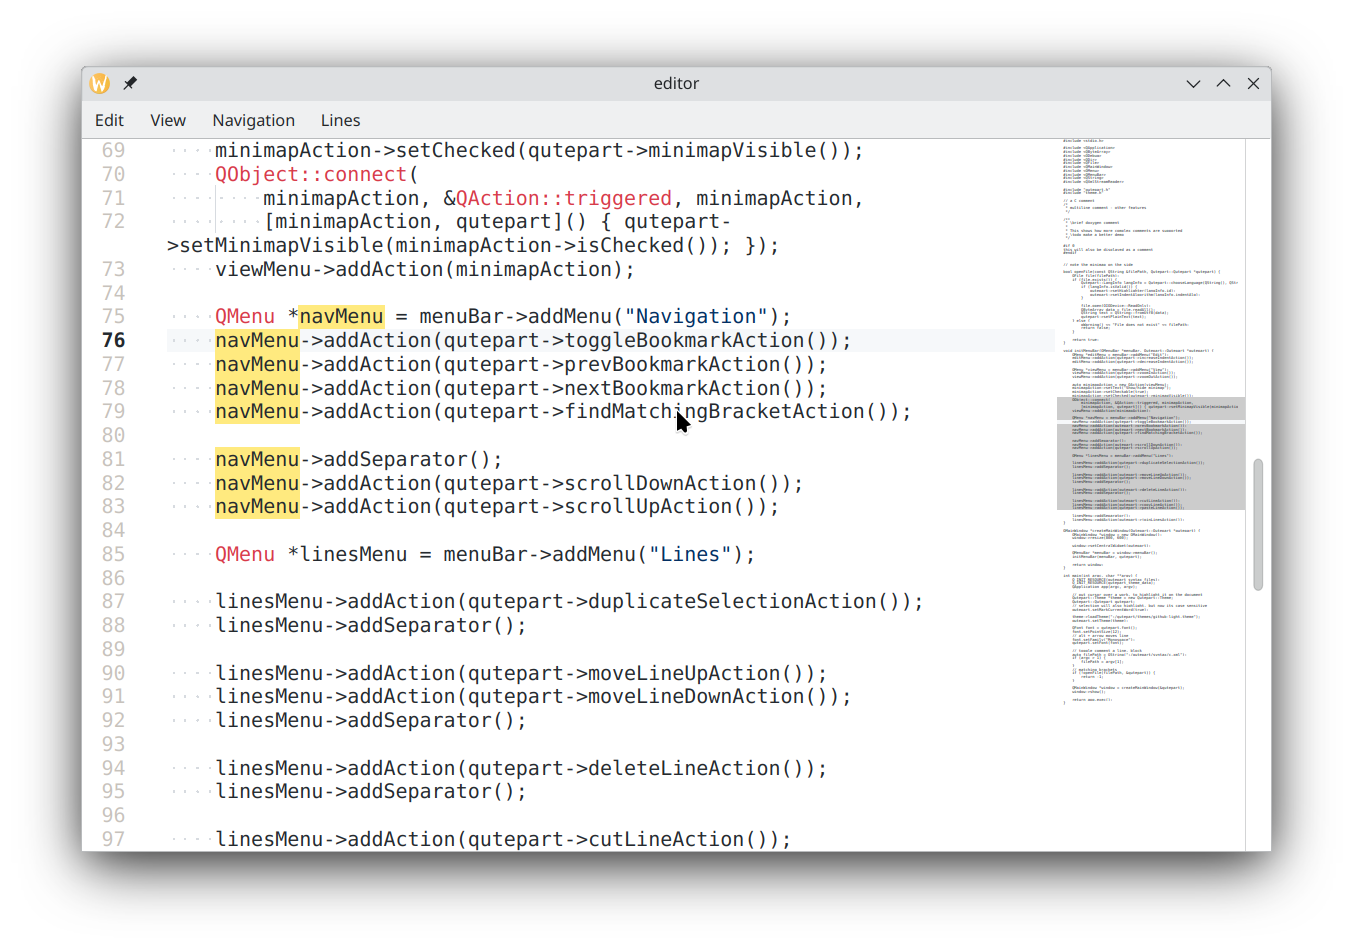
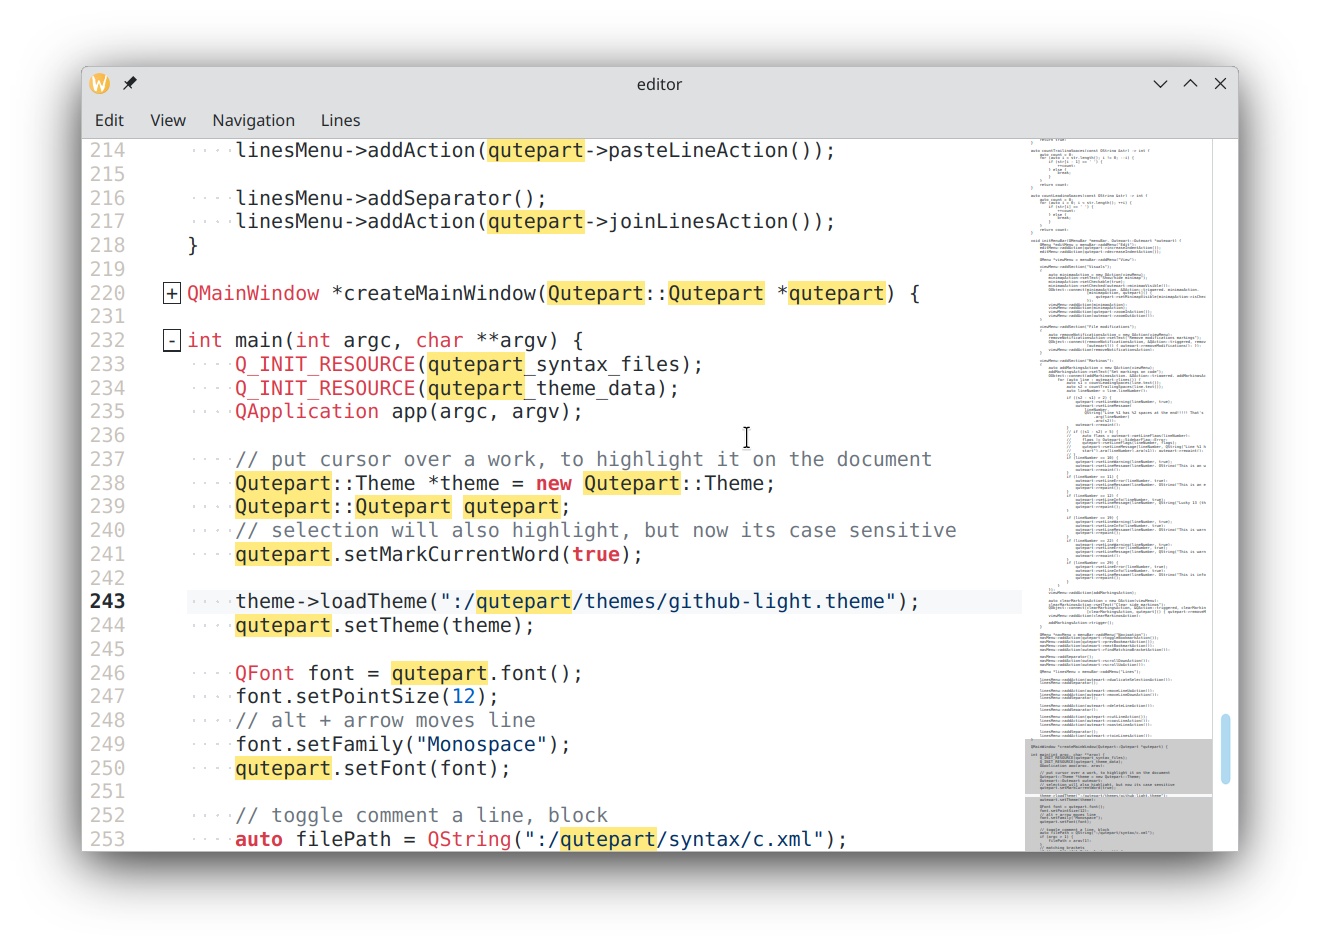
Qutepart: finish folding implementation (19)
1) New screenshot shows folding
2) Document in the readme the new feature
3) Expose the actions for folding

I think there are bugs in folding, and they will get addressed in the
future.

closes #19

Changed region(s): [[0.0621, 0.0612, 0.7144, 0.9177], [0.7765, 0.153, 0.9318, 0.9177]]

diff --git a/src/qutepart.cpp b/src/qutepart.cpp
@@ -1428,30 +1428,35 @@ void Qutepart::initActions() {
         }
     });
 
-    auto *foldAction = new QAction(this);
-    foldAction->setShortcut(QKeySequence(Qt::CTRL | Qt::SHIFT | Qt::Key_BracketLeft));
-    connect(foldAction, &QAction::triggered, this, &Qutepart::foldCurrentBlock);
-    this->addAction(foldAction);
+    foldAction_ = new QAction(tr("Fold current block"), this);
+    foldAction_->setShortcutContext(Qt::WidgetShortcut);
+    foldAction_->setShortcut(QKeySequence(Qt::CTRL | Qt::SHIFT | Qt::Key_BracketLeft));
+    connect(foldAction_, &QAction::triggered, this, &Qutepart::foldCurrentBlock);
+    this->addAction(foldAction_);
 
-    auto *unfoldAction = new QAction(this);
-    unfoldAction->setShortcut(QKeySequence(Qt::CTRL | Qt::SHIFT | Qt::Key_BracketRight));
-    connect(unfoldAction, &QAction::triggered, this, &Qutepart::unfoldCurrentBlock);
-    this->addAction(unfoldAction);
+    unfoldAction_ = new QAction(tr("Unfold current block"), this);
+    unfoldAction_->setShortcutContext(Qt::WidgetShortcut);
+    unfoldAction_->setShortcut(QKeySequence(Qt::CTRL | Qt::SHIFT | Qt::Key_BracketRight));
+    connect(unfoldAction_, &QAction::triggered, this, &Qutepart::unfoldCurrentBlock);
+    this->addAction(unfoldAction_);
 
-    auto *toggleFoldAction = new QAction(this);
-    toggleFoldAction->setShortcut(QKeySequence(Qt::ALT | Qt::Key_Asterisk));
-    connect(toggleFoldAction, &QAction::triggered, this, &Qutepart::toggleCurrentFold);
-    this->addAction(toggleFoldAction);
+    toggleFoldAction_ = new QAction(tr("Toggle fold current block"), this);
+    toggleFoldAction_->setShortcutContext(Qt::WidgetShortcut);
+    toggleFoldAction_->setShortcut(QKeySequence(Qt::ALT | Qt::Key_Asterisk));
+    connect(toggleFoldAction_, &QAction::triggered, this, &Qutepart::toggleCurrentFold);
+    this->addAction(toggleFoldAction_);
 
-    auto *foldTopLevelAction = new QAction(this);
-    foldTopLevelAction->setShortcut(QKeySequence(Qt::ALT | Qt::Key_0));
-    connect(foldTopLevelAction, &QAction::triggered, this, &Qutepart::foldTopLevelBlocks);
-    this->addAction(foldTopLevelAction);
+    foldTopLevelAction_ = new QAction(tr("Fold top level blocks"), this);
+    foldTopLevelAction_->setShortcutContext(Qt::WidgetShortcut);
+    foldTopLevelAction_->setShortcut(QKeySequence(Qt::ALT | Qt::Key_0));
+    connect(foldTopLevelAction_, &QAction::triggered, this, &Qutepart::foldTopLevelBlocks);
+    this->addAction(foldTopLevelAction_);
 
-    auto *unfoldAllAction = new QAction(this);
-    unfoldAllAction->setShortcut(QKeySequence(Qt::ALT | Qt::SHIFT | Qt::Key_0));
-    connect(unfoldAllAction, &QAction::triggered, this, &Qutepart::unfoldAll);
-    this->addAction(unfoldAllAction);
+    unfoldAllAction_ = new QAction(tr("Unfold all"), this);
+    unfoldAllAction_->setShortcutContext(Qt::WidgetShortcut);
+    unfoldAllAction_->setShortcut(QKeySequence(Qt::ALT | Qt::SHIFT | Qt::Key_0));
+    connect(unfoldAllAction_, &QAction::triggered, this, &Qutepart::unfoldAll);
+    this->addAction(unfoldAllAction_);
 }
 
 QAction *Qutepart::createAction(const QString &text, QKeySequence shortcut,
@@ -1464,14 +1469,10 @@ QAction *Qutepart::createAction(const QString &text, QKeySequence shortcut,
     if iconFileName is not None:
          action.setIcon(getIcon(iconFileName))
 #endif
-
     action->setShortcut(shortcut);
     action->setShortcutContext(Qt::WidgetShortcut);
-
     connect(action, &QAction::triggered, handler);
-
     addAction(action);
-
     return action;
 }
 

diff --git a/include/qutepart/qutepart.h b/include/qutepart/qutepart.h
@@ -430,6 +430,12 @@ class Qutepart : public QPlainTextEdit {
     inline QAction *insertLineAboveAction() const { return insertLineAboveAction_; }
     inline QAction *insertLineBelowAction() const { return insertLineBelowAction_; }
     inline QAction *joinLinesAction() const { return joinLinesAction_; }
+    inline QAction *foldAction() const { return foldAction_; };
+    inline QAction *unfoldAction() const { return unfoldAction_; };
+    inline QAction *toggleFoldAction() const { return toggleFoldAction_; }
+    inline QAction *foldTopLevelAction() const { return foldTopLevelAction_; }
+    inline QAction *unfoldAllAction() const { return unfoldAllAction_; }
+
     /// Zoom In the document by scaling fonts
     inline QAction *zoomInAction() const { return zoomInAction_; }
     /// Zoom Out the document by scaling fonts
@@ -635,6 +641,11 @@ class Qutepart : public QPlainTextEdit {
     QAction *zoomOutAction_;
     QAction *toggleActionComment_;
     QAction *findMatchingBracketAction_;
+    QAction *foldAction_ = nullptr;
+    QAction *unfoldAction_ = nullptr;
+    QAction *toggleFoldAction_ = nullptr;
+    QAction *foldTopLevelAction_ = nullptr;
+    QAction *unfoldAllAction_ = nullptr;
 
     friend class LineNumberArea;
     friend class MarkArea;

diff --git a/README.md b/README.md
@@ -96,12 +96,19 @@ All features are configurable
 37. Zoom document (change font size on the fly).
 38. Change indentation of text (tab/shift+tab).
 39. Preview side mini-map.
+40. Toogle folding.
+41. Smart toggle folding - when folding a nested fold, parent level will get folded.
+    `auto f() { while (){ if` ... - assume you are on `if`, this will get folded,
+    then `while` then `f()`, all with the same shortcut key
+42. Top level folding. On Java, will fold all classes, keeping first level open (same for XML,
+    top level fold will be open, but the first childs gets folded).
 
 Planned features
 
 1. Spell check.
-2. Toggle folding sections of code/text.
+2. Inline marking (linter warnings, debugger hints etc).
 3. Markdown specific indentator.
+
 
 To see the API in action, see [editor](exammple/editor.cpp).
 
